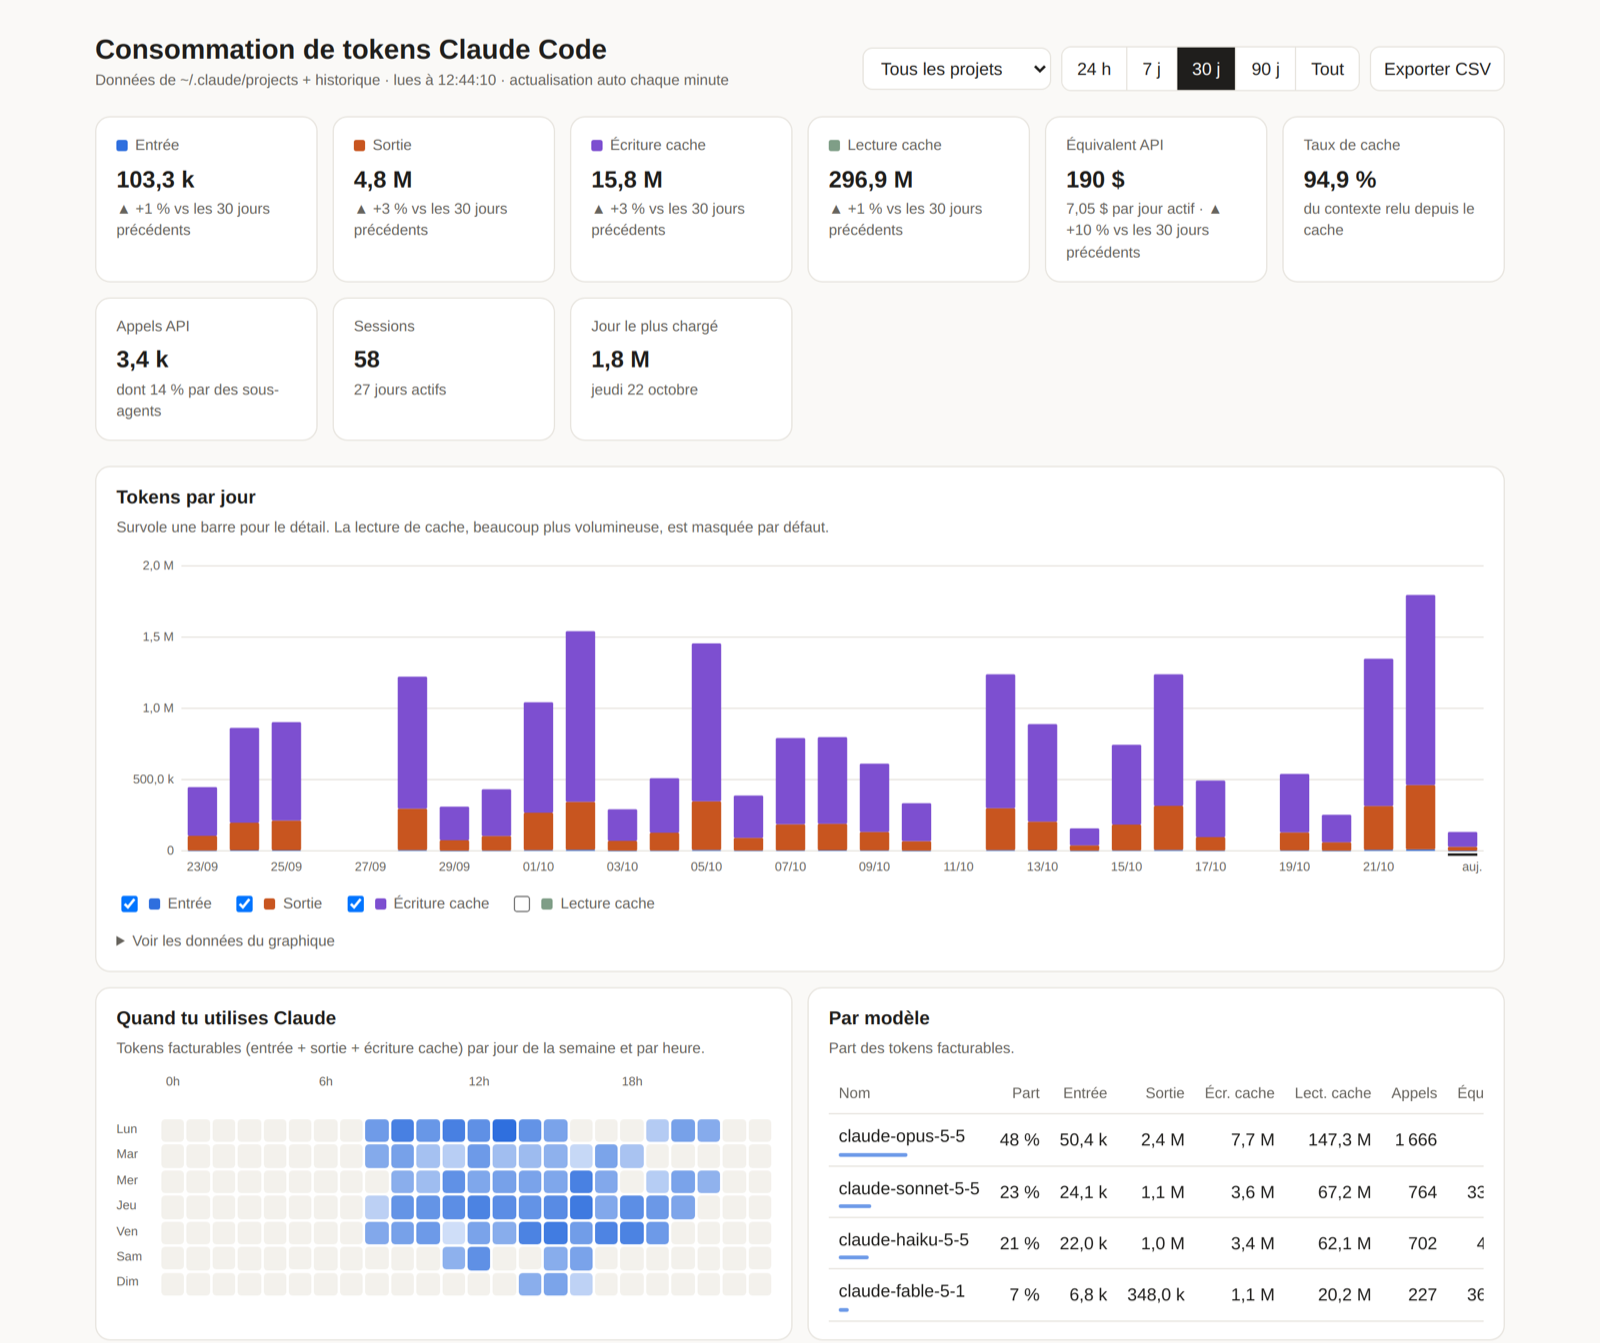
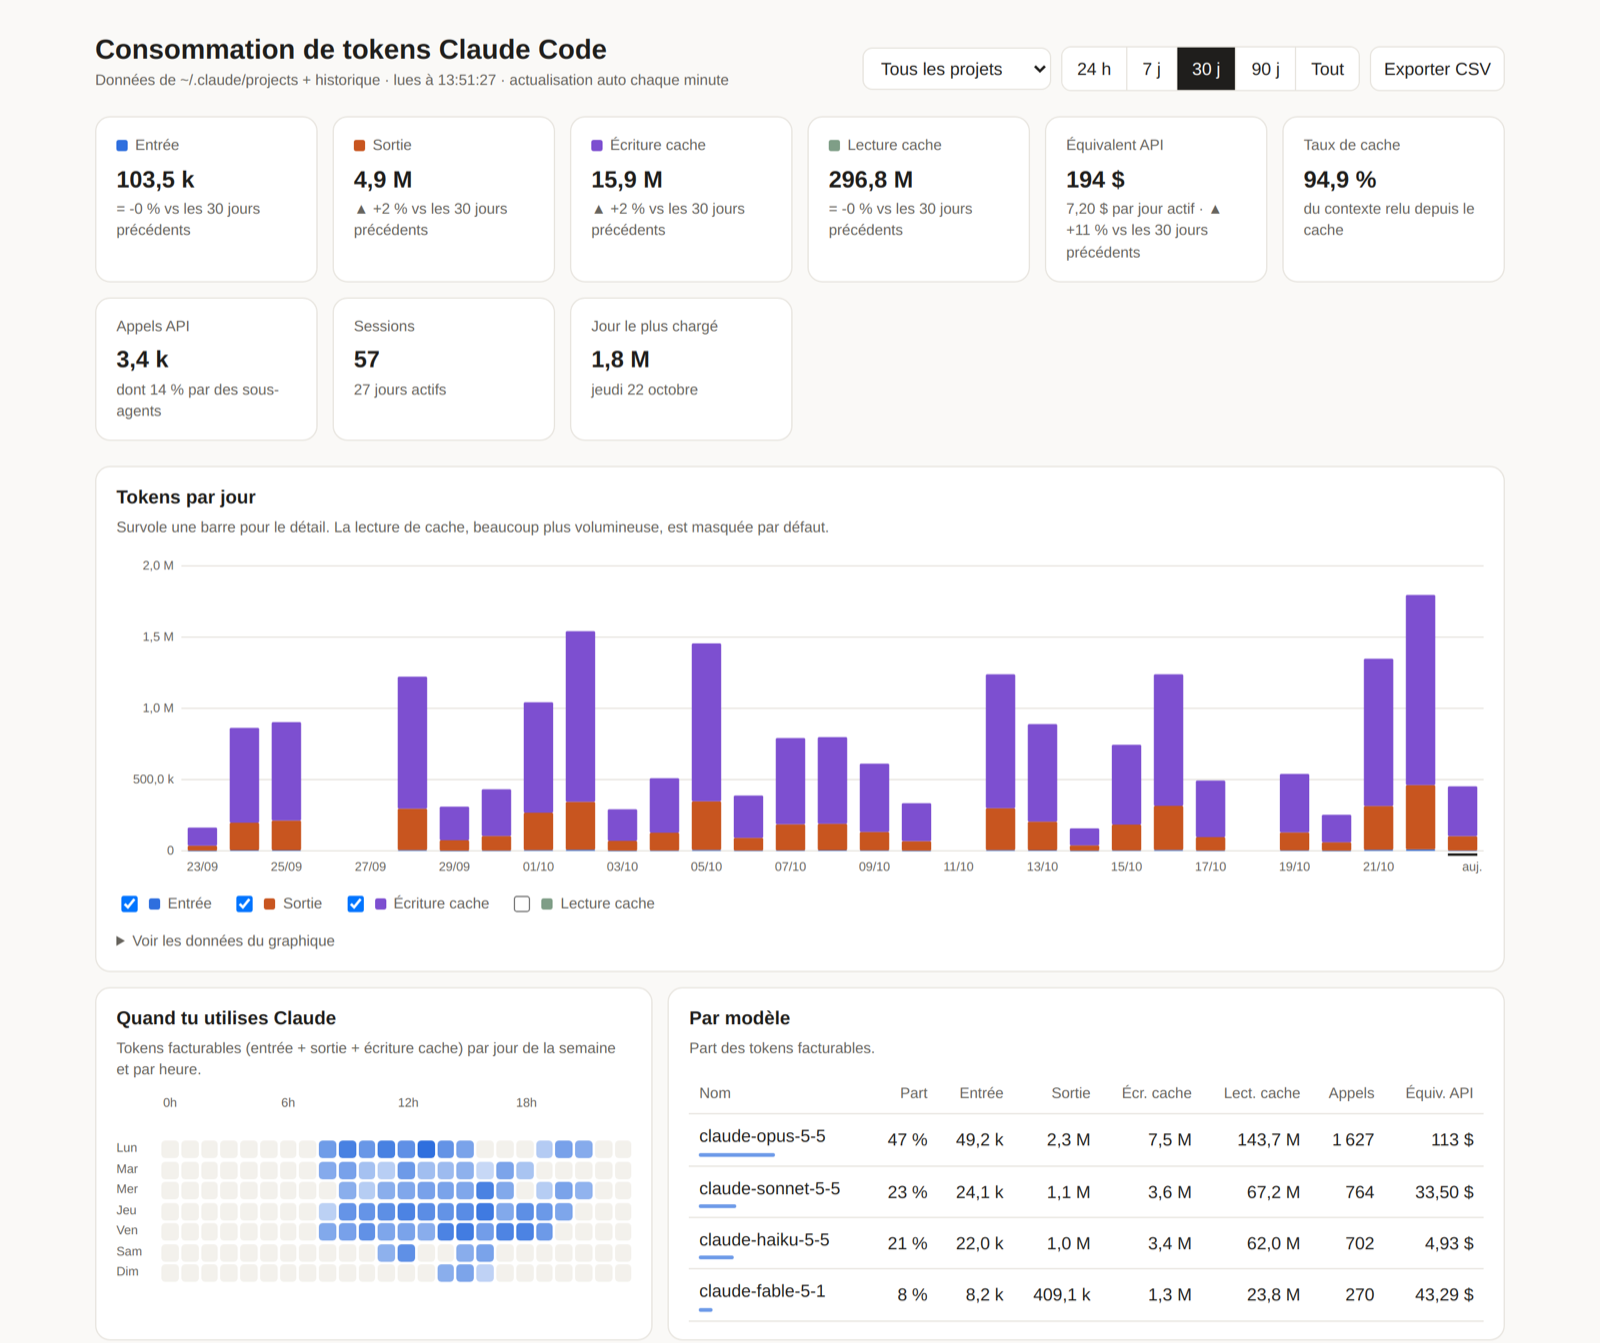
Tableaux : plus de colonne coupée entre 1280 et 1600 px (#3)
* Tableaux : plus de colonne coupée entre 1280 et 1600 px

« Par modèle » prend 3/5 de la ligne à côté de la carte de chaleur, « Par projet »
et « Sessions » ont chacun leur ligne. Workflow temporaire pour les captures.

* Captures regénérées (données fictives), retrait du workflow temporaire

---------

diff --git a/index.html b/index.html
@@ -66,8 +66,10 @@
   details { margin-top: 10px; font-size: 12px; }
   summary { cursor: pointer; color: var(--muted); }
 
-  .grid2 { display: grid; grid-template-columns: repeat(auto-fit, minmax(340px, 1fr)); gap: 12px; margin-top: 12px; }
-  @media (max-width: 420px) { .grid2 { grid-template-columns: 1fr; } }
+  /* Un tableau de 8 colonnes demande ~600 px : « Par modèle » prend 3/5 de la ligne à côté de la carte de chaleur,
+     les tableaux plus larges (projets, sessions) ont chacun leur ligne. Écran étroit : tout s'empile. */
+  .split, .stack { display: grid; grid-template-columns: minmax(0, 1fr); gap: 12px; margin-top: 12px; }
+  @media (min-width: 1160px) { .split { grid-template-columns: minmax(0, 2fr) minmax(0, 3fr); } }
   .tablewrap { overflow-x: auto; }
   table { width: 100%; border-collapse: collapse; font-variant-numeric: tabular-nums; }
   th, td { text-align: right; padding: 7px 8px; border-bottom: 1px solid var(--line); white-space: nowrap; }
@@ -125,7 +127,7 @@
     <details><summary>Voir les données du graphique</summary><div class="tablewrap" id="dailyTable"></div></details>
   </section>
 
-  <div class="grid2">
+  <div class="split">
     <section class="card">
       <h2>Quand tu utilises Claude</h2>
       <div class="sub">Tokens facturables (entrée + sortie + écriture cache) par jour de la semaine et par heure.</div>
@@ -134,7 +136,7 @@
     <section class="card"><h2>Par modèle</h2><div class="sub">Part des tokens facturables.</div><div class="tablewrap" id="models"></div></section>
   </div>
 
-  <div class="grid2">
+  <div class="stack">
     <section class="card"><h2>Par projet</h2><div class="sub">Clique sur un projet pour filtrer toute la page.</div><div class="tablewrap" id="projects"></div></section>
     <section class="card"><h2>Sessions les plus gourmandes</h2><div class="sub">Classées par tokens facturables.</div><div class="tablewrap" id="sessions"></div></section>
   </div>

diff --git a/CLAUDE.md b/CLAUDE.md
@@ -24,6 +24,7 @@ Node ≥ 18 sans dépendance : `server.mjs` (lecture + agrégation), `index.html
 - macOS testé en conditions réelles. Linux (systemd et .desktop) et Windows : installation/désinstallation vérifiées en CI (`.github/workflows/install.yml`), mais pas le démarrage après une vraie ouverture de session.
 
 ## Journal des améliorations (ajout seul, le plus récent en haut)
+- 2026-10-23 : tableaux sans colonne coupée de 1280 à 1600 px (« Par modèle » sur 3/5 de ligne, projets et sessions en pleine largeur) ; captures regénérées.
 - 2026-10-23 : dépôt renommé `claude-code-usage-dashboard` (trouvable par recherche) ; `npm run demo` (données fictives, sert aussi aux captures du README) ; README vitrine ; CI de l'installeur sur 3 OS + variante sans systemd ; `main` protégée (7 tests requis).
 - 2026-10-23 : dépôt GitHub public, installeur multiplateforme, chemins Windows.
 - 2026-10-19 : balayage auto toutes les 5 min (sans visiteur, l'historique ne se remplissait pas).
